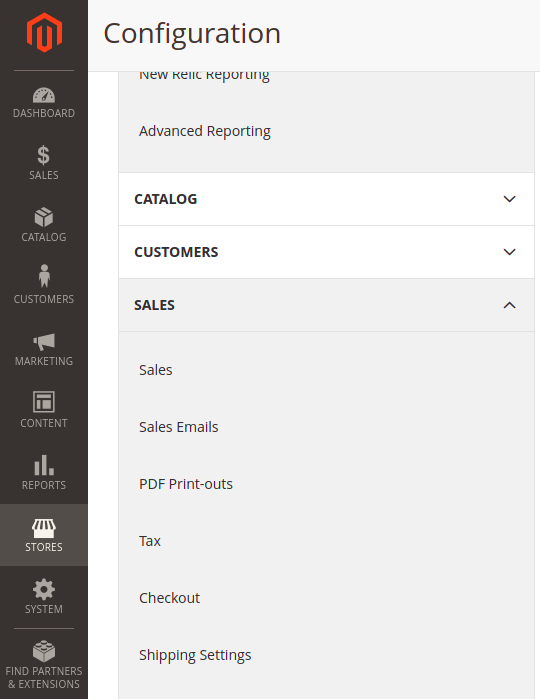
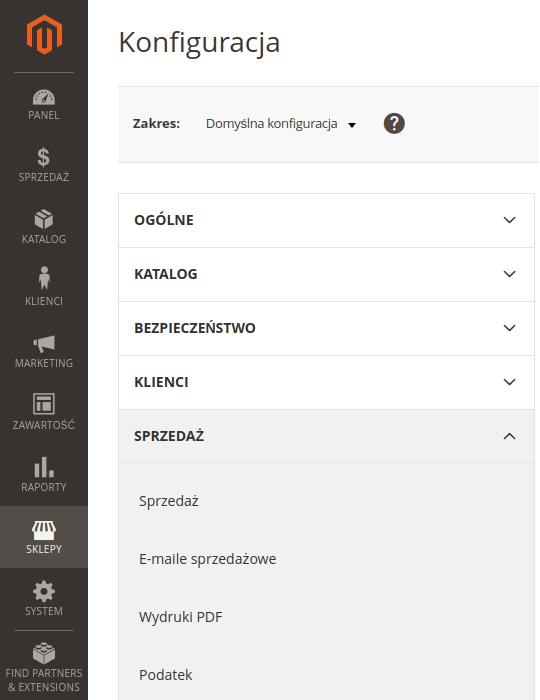
FN-8877 Update documentation.

diff --git a/docs/comfino.pl.md b/docs/comfino.pl.md
@@ -51,10 +51,16 @@ Aby uzyskać dostęp do ustawień modułu, wykonaj poniższe kroki:
 ![Konfiguracja](images/pl/menu2.png "Konfiguracja")
 ![Konfiguracja](images/pl/menu3.png "Konfiguracja")
 ![Konfiguracja](images/pl/menu4.png "Konfiguracja")
+![Konfiguracja](images/pl/mod_config1.png "Konfiguracja")
+
+## SEKCJE KONFIGURACJI
 
 Pole które jest najbardziej istotne i należy je wypełnić to: `"Klucz API"`.
 
-![Konfiguracja](images/pl/mod_config.png "Konfiguracja")
+![Konfiguracja](images/pl/mod_config2.png "Konfiguracja")
+![Konfiguracja](images/pl/mod_config3.png "Konfiguracja")
+![Konfiguracja](images/pl/mod_config4.png "Konfiguracja")
+
 
 ## DEAKTYWACJA
 

diff --git a/docs/comfino.en.md b/docs/comfino.en.md
@@ -51,10 +51,15 @@ To access the module settings, follow the steps below:
 ![Configuration](images/en/menu2.png "Configuration")
 ![Configuration](images/en/menu3.png "Configuration")
 ![Configuration](images/en/menu4.png "Configuration")
+![Configuration](images/en/mod_config1.png "Configuration")
+
+## CONFIGURATION SECTIONS
 
 The most important field that should be completed is: `"API key"`.
 
-![Configuration](images/en/mod_config.png "Configuration")
+![Configuration](images/en/mod_config2.png "Configuration")
+![Configuration](images/en/mod_config3.png "Configuration")
+![Configuration](images/en/mod_config4.png "Configuration")
 
 ## DEACTIVATION
 
